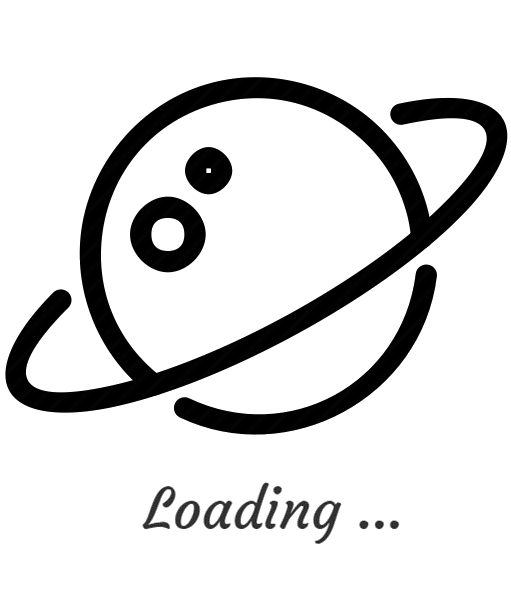
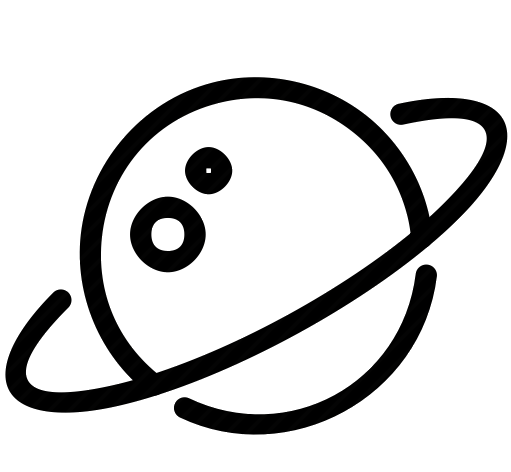
Add Random Loading Messages

Changed region(s): [[0.0, 0.1186, 0.998, 0.9195]]

diff --git a/index.html b/index.html
@@ -7,6 +7,7 @@
 	<link href="SpaceCompanyFavicon.png" rel="shortcut icon" type="image/x-icon" />
 	<link href="lib/bootstrap.min.css" rel="stylesheet" type="text/css" id="theme_css"/>
 	<link href="lib/pnotify.custom.min.css" rel="stylesheet" type="text/css">
+	<link href="https://fonts.googleapis.com/css?family=Orbitron" rel="stylesheet">
 	<link href="style.css" rel="stylesheet">
 	<!--<script src='https://cdn1.kongregate.com/javascripts/kongregate_api.js'></script>
 	<script>
@@ -33,11 +34,17 @@
 <div id="loadScreen" style="width:100%; height:100%">
 	<div style="margin-left:31%; margin-top:3%;">
 		<img id="loadLogo" style="opacity: 1; width:50%; height:50%; /*margin-left:35%; margin-top:3%;*/" src="loadScreenPic.png">
-		<!-- <div style="margin-left:10%; font-size: 36px; font-family: 'Courgette', cursive;">
-			Loading ...
-		</div> -->
+		<br>
+	</div>
+	<div id="loadingText" style="width:100%; font-size:40px; font-family: 'Orbitron', 'sans-serif'; font-weight: bold; color:#000000; line-height:40px; text-align:center;">
+		Reticulating Splines...
 	</div>
 </div>
+<script>
+	var loadingTextArray = ["Reticulating Splines", "Navigation Systems Initialising", "Initialising Fake Loading Bar", "Initialising Virtual Trump", "Who Needs A Loading Bar Anyway?", "Extracting Resources", "Adding Hidden Agendas", "Giving Power To The Overlord", "Calibrating Rocket Engines", "Computing Exponential Consts", "Deciding What Message to Display Next", "Cloning Other Games", "Let There Be Light! Oh Wait, Dysons.", "Hiding Wally", "Hiding Waldo", "Resolving GUID Conflict", "Fixing Bugs", "Thanking The Developer", "Reverse Engineering The Solar System", "Searching for Llamas", "Sequencing Particles", "Time-Compressing Simulator Clock", "Unable to Reveal Current Activity"];
+	var loadingText = loadingTextArray[Math.floor(Math.random()*loadingTextArray.length)] + "...";
+	document.getElementById("loadingText").innerHTML = loadingText;
+</script>
 <div id="game" class="container hidden" style="width:95%; margin: auto;">
 
 	<!--  Bar at top of screen -->

diff --git a/README.md b/README.md
@@ -15,6 +15,7 @@ v0.6.0 The Lore Update
 https://www.reddit.com/r/SpaceCompany/wiki/futureplans#wiki_v0.6
 - Adding Lore onto every Building and an introduction to your Space Company
 - Rebalance all costs to not use as much Space Metal/Gems
+- Loading screen flavour text changes as you progress
 
 v0.5.0 The Interstellar Update
 https://www.reddit.com/r/SpaceCompany/wiki/futureplans#wiki_v0.5
@@ -44,6 +45,7 @@ https://www.reddit.com/r/SpaceCompany/wiki/futureplans#wiki_v0.5
 - Antimatter Wonder
 - Kongregate Leaderboard
 - 7 New Themes
+- Random Loading Messages
 
 ##### Small Changes
 - Individual buttons to turn off Plasma and Meteorite Machines
@@ -53,6 +55,7 @@ https://www.reddit.com/r/SpaceCompany/wiki/futureplans#wiki_v0.5
 - 'Off' option for autosaving
 - Science forced 1 decimal until 100
 - Cleared up misconceptions with 'NB:' notes
+- Uranium + Plasma Achievements
 
 ##### Bug Fixes
 - Fixed Bug with Solar System Sidebar
